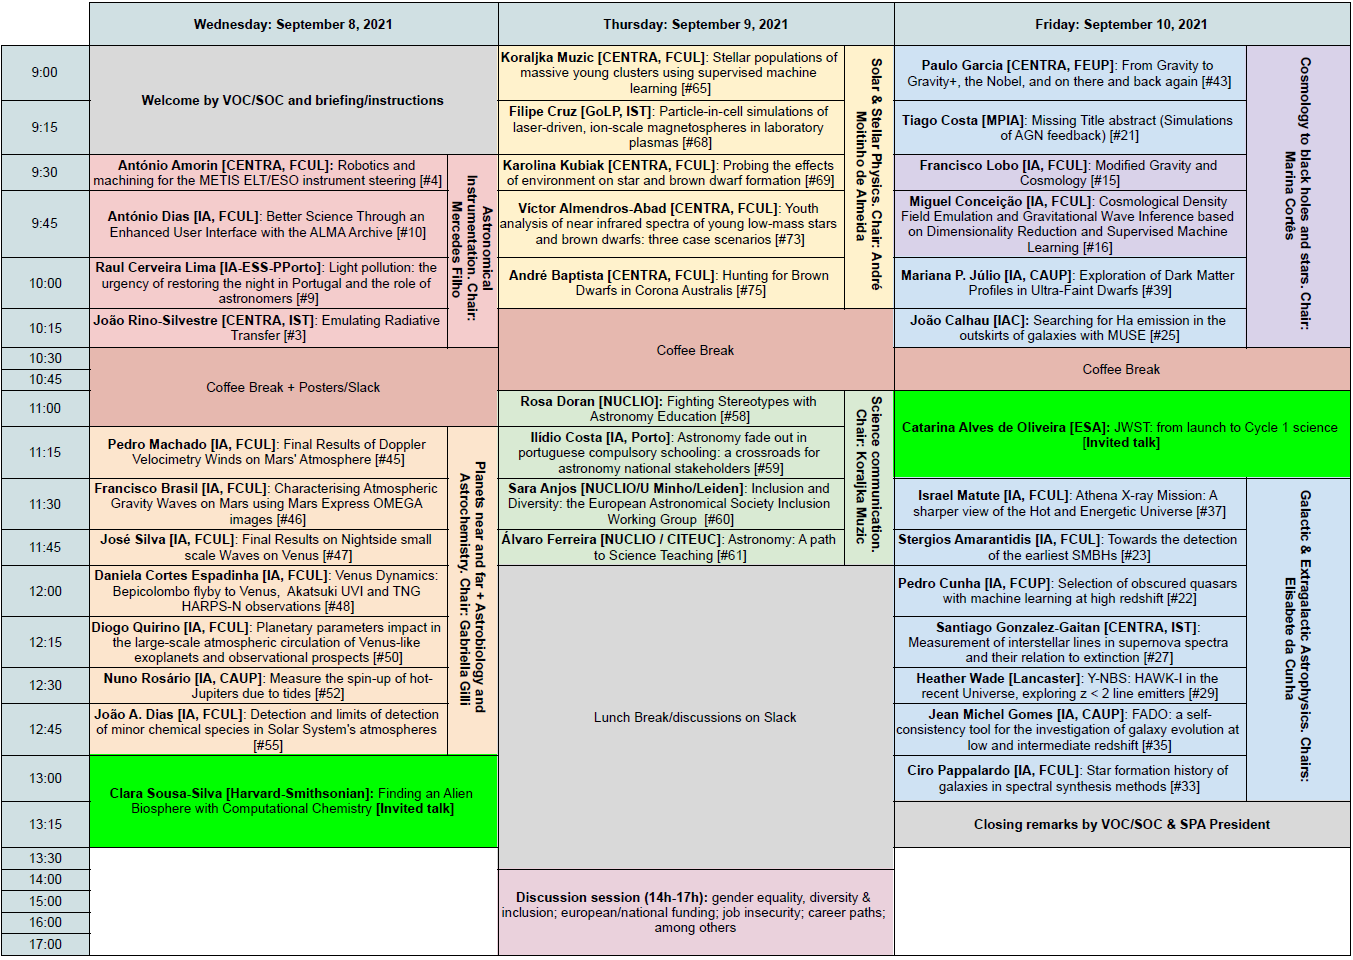
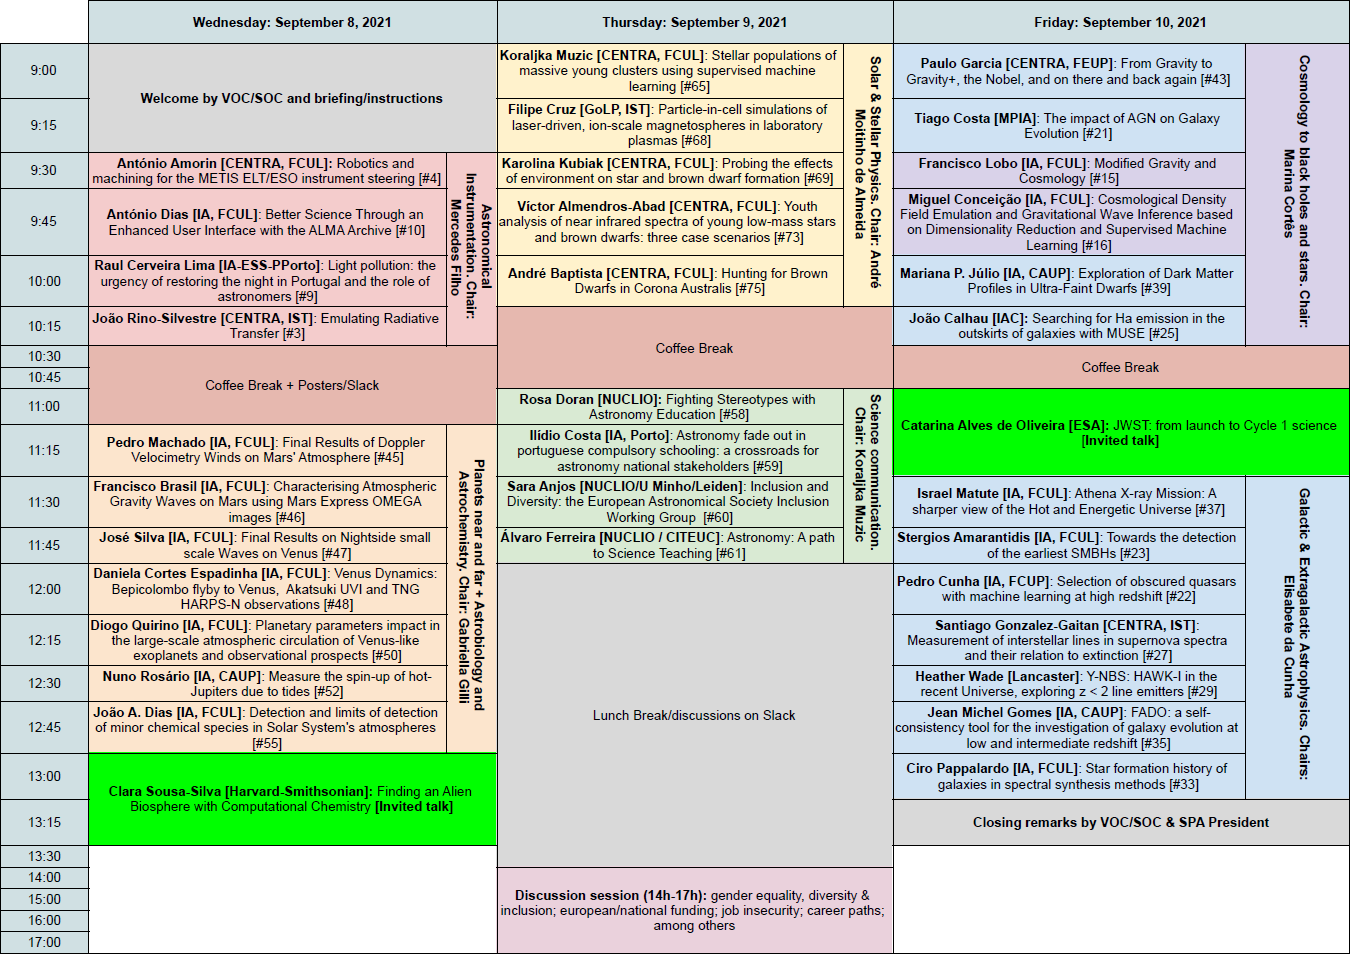
updated program

diff --git a/talk_abstracts.md b/talk_abstracts.md
@@ -66,7 +66,7 @@ We show that for a simple test case of a spherical dust shell, our approach is s
 
 ## ID 21
 
-**Title**: nan
+**Title**: The impact of AGN on Galaxy Evolution
 
 **Author**: T. Costa
 
